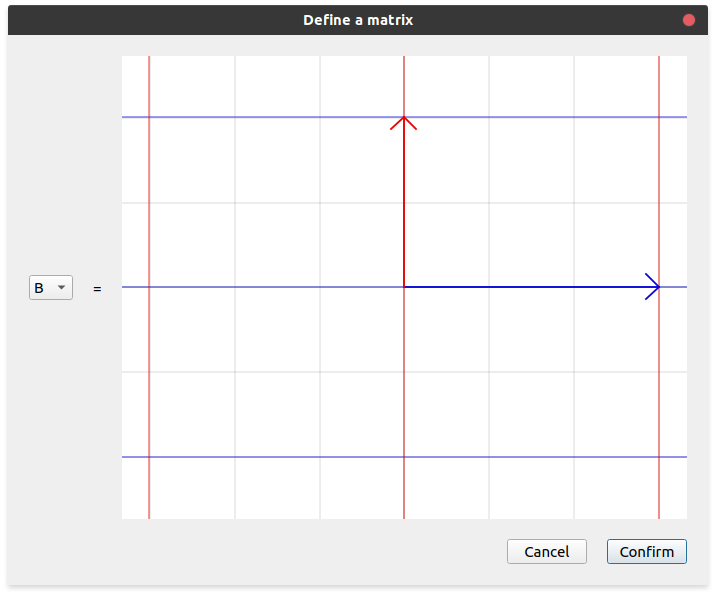
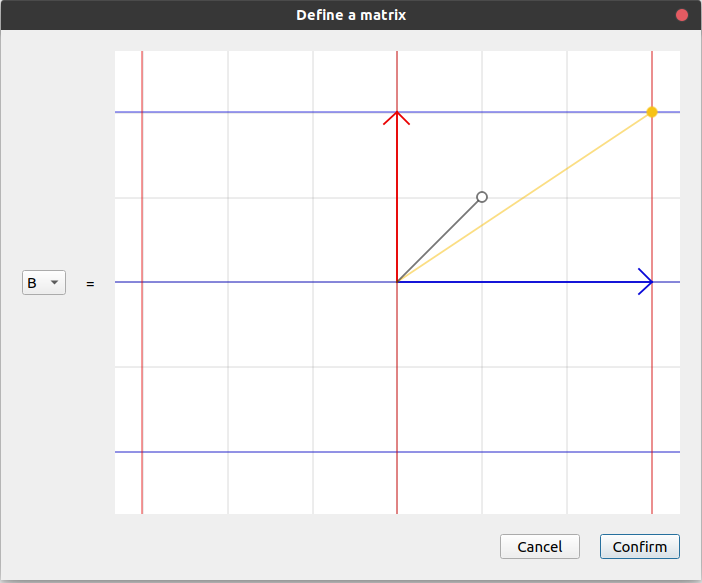
Update tutorial for v0.4.0

diff --git a/docs/source/tutorial/expression-syntax.rst b/docs/source/tutorial/expression-syntax.rst
@@ -3,6 +3,14 @@
 Expression syntax
 =================
 
+Matrices are defined separate from their usage. See :ref:`Defining matrices<defining-matrices>`.
+
+It's easier to talk about how to combine these pre-defined matrices into expressions first, and
+then talk about anonymous matrices.
+
+Composition
+-----------
+
 The `expression input box` and :ref:`expression definition dialog<defining-matrices.as-expression>`
 allow you to compose matrices using multiplication (scalar and matrix), addition, exponentiation,
 brackets, and transposes. Obviously you can't easily type something like
@@ -66,6 +74,25 @@ Examples
 I recommend to always put exponents in braces. I haven't done it here, just to show when it's
 technically necessary, but it makes things easier to read, so it's good practice to use it all the
 time.
+
+Anonymous matrices
+------------------
+
+It is often useful to use a simple numerically defined matrix once or twice as part of an example,
+but it can be a hassle to define a matrix and then only use it once or twice.
+
+To fix this problem, you can use anonymous matrices. Anonymous matrices are those which don't have
+a name. If you've used `MATLAB <https://en.wikipedia.org/wiki/MATLAB>`_ or `GNU Octave
+<https://octave.org/index#>`_ before, then the syntax should seem familiar.
+
+A matrix of the form :math:`\begin{pmatrix}a & b\\ c & d\end{pmatrix}` would be represented as
+``[a b; c d]``. The spaces are necessary.
+
+An anonymous matrix can be used anywhere in an expression that a pre-defined matrix can. For
+example, in :ref:`Defining matrices<defining-matrices.numerically>`, we defined :math:`\mathbf{A}`
+as being :math:`\begin{pmatrix}2 & -3.2\\ -1.9 & 0.63\end{pmatrix}`. If we only wanted this matrix
+once, then instead of using something like ``4A^2`` in an expression, we could use ``4[2 -3.2; -1.9
+0.63]^2``.
 
 .. rubric:: Footnotes
 

diff --git a/docs/source/tutorial/saving-and-loading-sessions.rst b/docs/source/tutorial/saving-and-loading-sessions.rst
@@ -9,8 +9,8 @@ Usefulness in teaching
 As a teacher, it is often useful to plan a lesson in advance. Defining a whole set of matrices at
 the start of a lesson is boring and time consuming, so lintrans allows you to define a set of
 matrices beforehand, save the whole session to a file, and then open that saved session for the
-lesson. This session file saves all the matrices you've defined, as well as the polygon if you've
-defined one [#]_.
+lesson. This session file saves all the matrices you've defined, the display settings, position of
+the input vector, as well as the polygon if you've defined one.
 
 When you open a previously saved session, you can view all the matrices you had defined by clicking
 the `Show defined matrices` button. However, I would recommend writing down some separate notes to
@@ -33,6 +33,9 @@ defined a new matrix or changed the polygon) without having saved since that cha
 be prompted to save your session before exiting. You can exit and discard your changes if you want
 to, but I would recommend saving.
 
+You will also be prompted to save the session when exiting lintrans even if you hadn't already
+saved it somewhere.
+
 Loading
 -------
 
@@ -40,8 +43,3 @@ To open a previously saved session, go to ``File`` > ``Open`` or press ``Ctrl+O`
 shown all the lintrans session save files in the special folder, and you can just double click on
 the one you want. If you saved your session elsewhere, then you can simply navigate to wherever you
 saved it just like you would with any other file.
-
-.. rubric:: Footnotes
-
-.. [#] If you don't want the polygon to be saved, just reset it before saving. This will
-   effectively delete the polygon.

diff --git a/docs/source/tutorial/configuring-global-settings.rst b/docs/source/tutorial/configuring-global-settings.rst
@@ -1,0 +1,34 @@
+.. _configuring-global-settings:
+
+Configuring global settings
+===========================
+
+lintrans has a few global settings which persist between sessions. These settings include things
+like the size of the draggable circle around vector tips, as well as whether to snap vectors to
+integer coordinates when dragging them.
+
+When you go to ``File`` > ``Settings``, you will be presented with this menu:
+
+.. image:: _images/global_settings/main.png
+   :alt: The global settings menu
+   :align: center
+
+If you hover over any of the options, you'll get a tooltip explaining what the option does. If you
+click the `Reset to defaults` button, then it will reset the settings back to these defaults.
+
+Distances
+---------
+
+When using lintrans on a laptop, for example, it can be difficult to be precise with the trackpad.
+These settings allow you to edit the distances needed to drag vectors, or snap them to integer
+coordinates.
+
+Updating
+--------
+
+lintrans supports the ability to be installed on Windows and Linux. When installed as a proper
+application using the appropriate installer, lintrans can automatically update itself in the
+background when it detects a new version is available.
+
+The way in which it updates itself can be configured here. It can be silent and automatic, prompt
+you whenever an update is detected, or it can never update itself.

diff --git a/docs/source/tutorial/defining-matrices.rst b/docs/source/tutorial/defining-matrices.rst
@@ -11,6 +11,8 @@ to one of 25 valid names. These are all the capital letters, except :math:`\math
 reserved for the identity matrix). To select a name when defining a matrix, use the drop-down menu
 on the left to select a letter.
 
+.. _defining-matrices.numerically:
+
 Numerically
 -----------
 
@@ -71,10 +73,16 @@ Viewing defined matrices
 ------------------------
 
 Once you've defined several matrices, it's useful to be able to see what you've defined so far. To
-do this, click the button labelled `Show defined matrices`.
+do this, click the button labelled `Show defined matrices`. This menu also allows you to "undefine"
+a matrix, which will delete it and make it invalid.
+
+.. warning::
+   If you delete a matrix that another matrix depends on, then the matrices that depend on it will
+   also be deleted. In this example, if we undefine :math:`\mathbf{A}`, then :math:`\mathbf{C}`
+   will be undefined as well, because it needed :math:`\mathbf{A}`.
 
 The matrix :math:`\mathbf{I}` is reserved for the identity matrix and you cannot
-assign a new matrix to this name.
+assign a new matrix to this name, or undefine it.
 
 .. image:: _images/defining/info.png
    :alt: The defined matrices info dialog

diff --git a/docs/source/tutorial/configuring-display-settings.rst b/docs/source/tutorial/configuring-display-settings.rst
@@ -131,12 +131,13 @@ lintrans allows you to see a custom defined polygon before and after any given t
 can show or hide both the transformed and untransformed versions separately with these display
 settings.
 
-See :ref:`Visualizing transformations<visualizing-transformations.defining-custom-polygons>` to see
-what these polygons look like.
+See :ref:`Visualizing transformations<visualizing-transformations.defining-custom-polygons>` to
+learn more about these polygons.
 
 Input/output vectors
 --------------------
 
 lintrans supports the ability to drag an input vector and see how it gets transformed by the
 currently displayed transformation. The display settings allow you to show or hide this pair of
-input and output vectors individually.
+input and output vectors individually. See
+:ref:`Visualizing transformations<visualizing-transformations.using-io-vectors>`.

diff --git a/docs/source/tutorial/visualizing-transformations.rst b/docs/source/tutorial/visualizing-transformations.rst
@@ -9,6 +9,10 @@ crux of the app.
 The reset button simply resets the position of the basis vectors to the identity. It does not reset
 the zoom level, display settings, or polygon. These are done separately.
 
+The text box along the bottom is the `expression input box`, which is where your expressions go
+when you want to visualize them. You can then use the up and down arrow keys to scroll through
+previously used expressions.
+
 Render
 ------
 
@@ -81,6 +85,8 @@ non-commutative.
    :align: center
 
    Animating ``B,rot(45)`` with Applicative animation
+
+.. _visualizing-transformations.using-io-vectors:
 
 Using input and output vectors
 ------------------------------

diff --git a/docs/source/tutorial/index.rst b/docs/source/tutorial/index.rst
@@ -23,5 +23,6 @@ There are several sections and I would highly recommend reading them in order.
    expression-syntax
    visualizing-transformations
    configuring-display-settings
+   configuring-global-settings
    saving-and-loading-sessions
    reporting-bugs-and-suggesting-features
